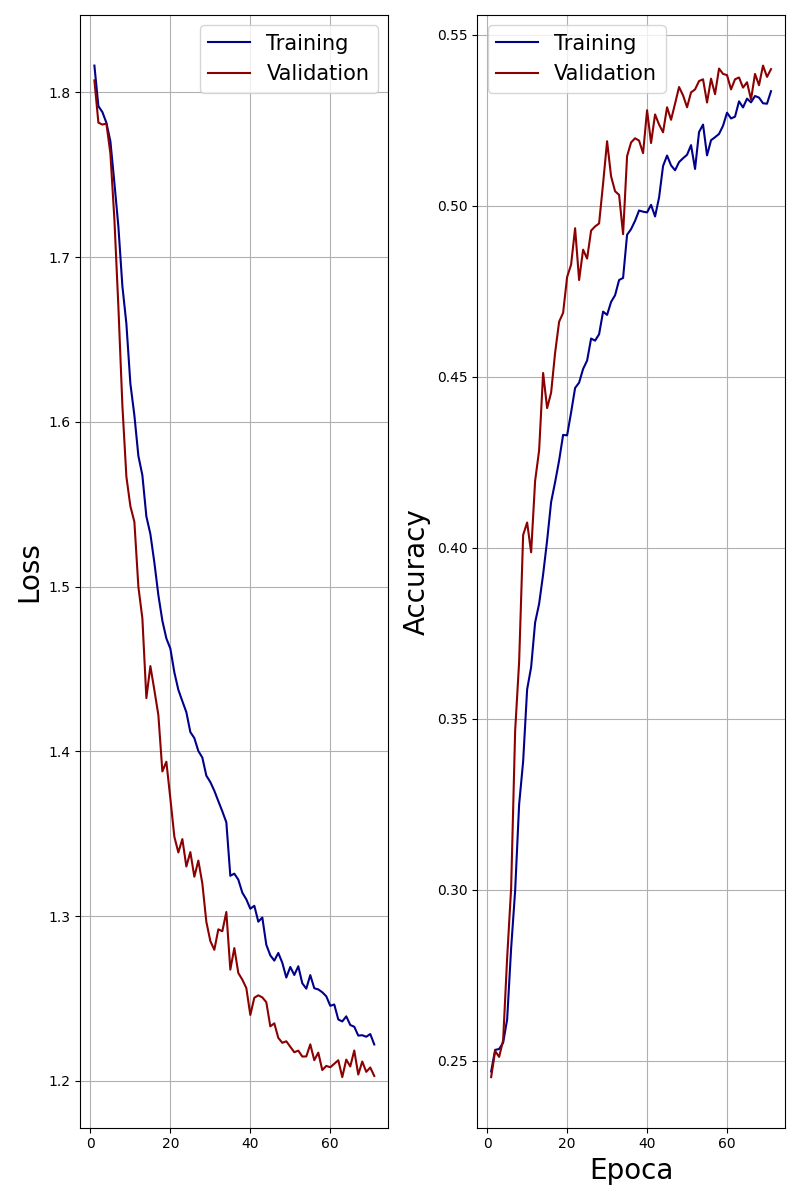
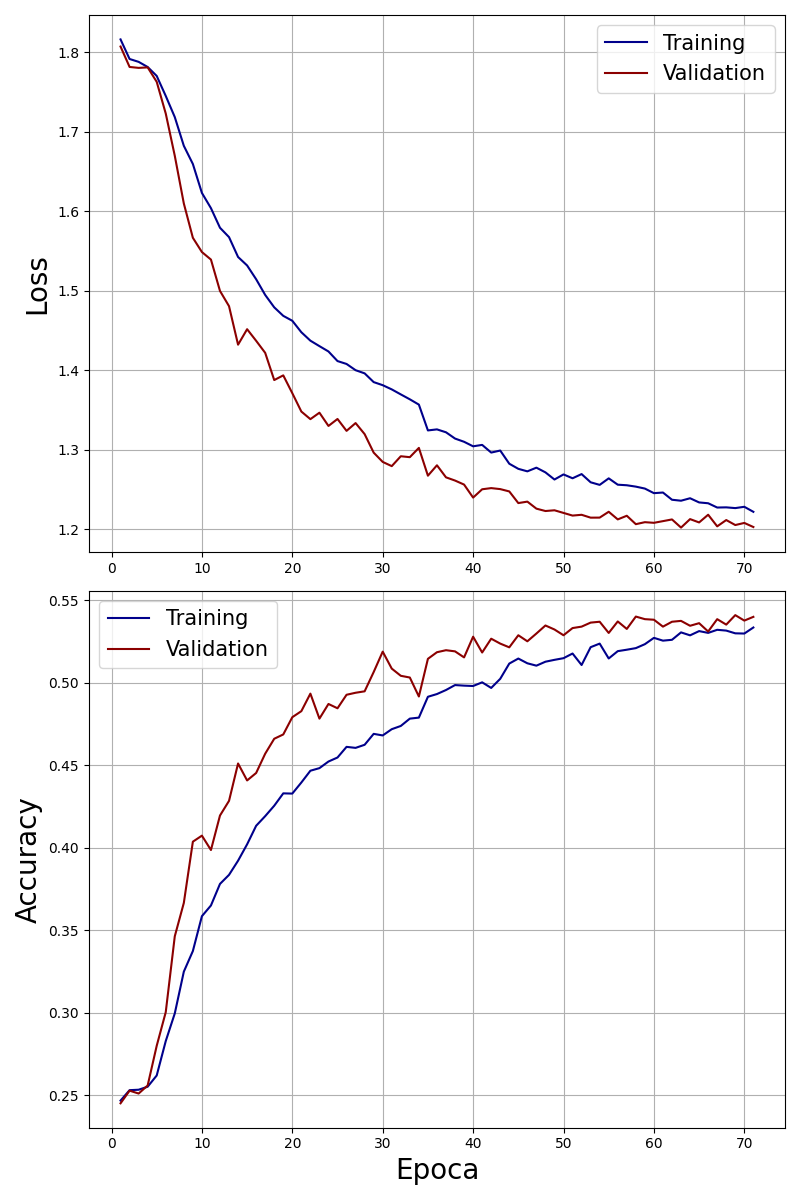
Refactor

diff --git a/Progetto/AnPy/trainG.py b/Progetto/AnPy/trainG.py
@@ -8,7 +8,7 @@ df = pd.read_csv("../Modelli/training/" + nomeF)
 l = len(df['loss'])+1
 
 # Loss
-fig, ax = plt.subplots(1, 2, figsize = (8, 12))
+fig, ax = plt.subplots(2, 1, figsize = (8, 12))
 ax[0].plot(np.arange(1, l), df['loss'], color = 'darkblue', label = 'Training')
 ax[0].plot(np.arange(1, l), df['val_loss'], color = 'darkred', label = 'Validation')
 ax[0].set_ylabel("Loss", fontsize = 20)
